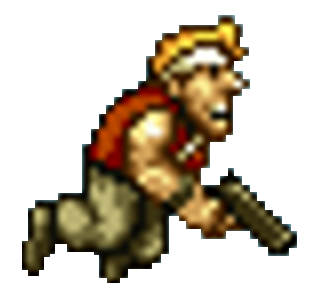
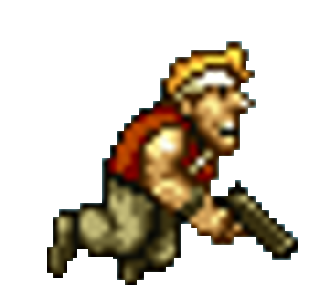
.

diff --git a/raylib-quickstart-main/raylib-quickstart-main/src/main.cpp b/raylib-quickstart-main/raylib-quickstart-main/src/main.cpp
@@ -32,7 +32,7 @@ int main()
 	// Utility function from resource_dir.h to find the resources folder and set it as the current working directory so we can load from it
 	SearchAndSetResourceDir("resources");
 	// Load a texture from the resources directory
-	Texture p1 = LoadTexture("p1.png");
+	Texture p1 = LoadTexture("p1.2.png");
 	// game loop
 	player p = {0,0,0,0};
 
@@ -52,21 +52,21 @@ int main()
 			p.canJump = true;
 			p.vy = 0;
 		}
-		if (IsKeyDown(KEY_D) && p.vx < 6 && !IsKeyDown(KEY_A))				//Movement X
+		if (IsKeyDown(KEY_D) && p.vx < 5 && !IsKeyDown(KEY_A))				//Movement X
 		{
 			p.vx++;
 		}
-		else if (IsKeyDown(KEY_A) && p.vx > -6 && !IsKeyDown(KEY_D)){
+		else if (IsKeyDown(KEY_A) && p.vx > -5 && !IsKeyDown(KEY_D)){
 			p.vx--;
 		}
 		else if (!IsKeyDown(KEY_D) && !IsKeyDown(KEY_A)){
 			p.vx = 0;
 		}
-		if (IsKeyDown(KEY_W)&&p.canJump)
+		if (IsKeyDown(KEY_W)&&p.canJump)								    //Jump
 		{
 			p.jump();
 		}
-		
+			
 
 
 		BeginDrawing();
